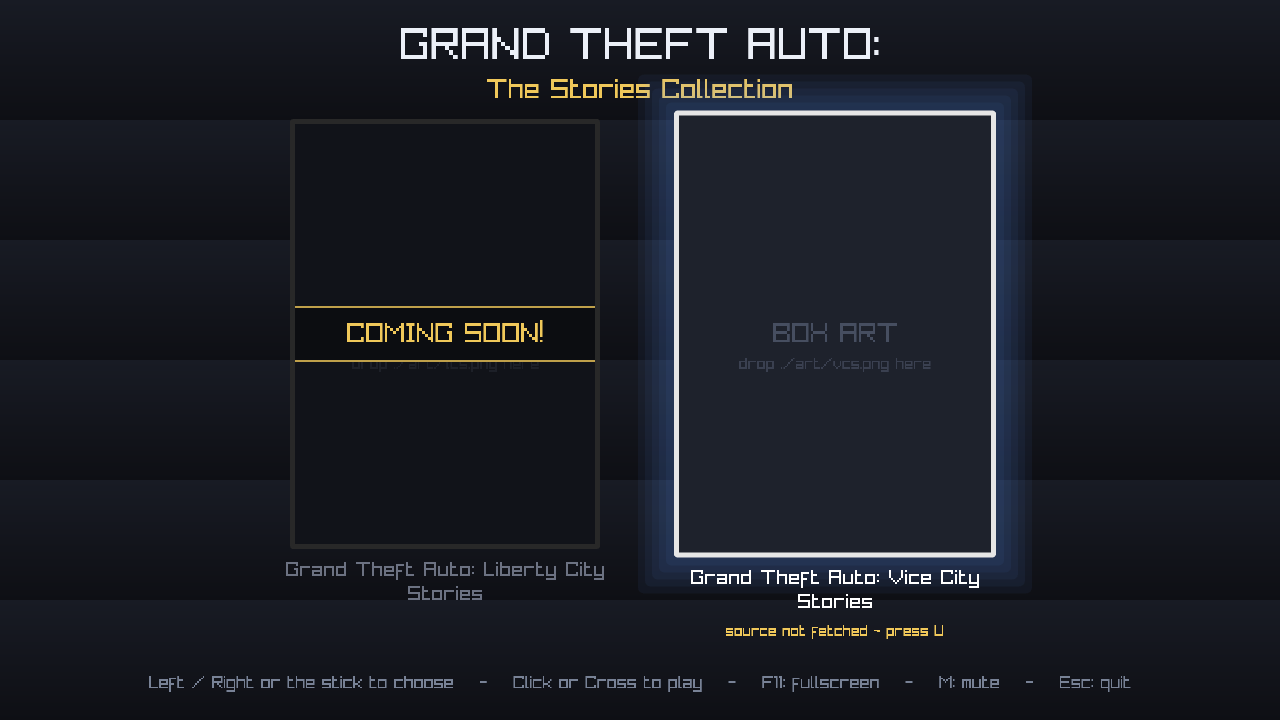
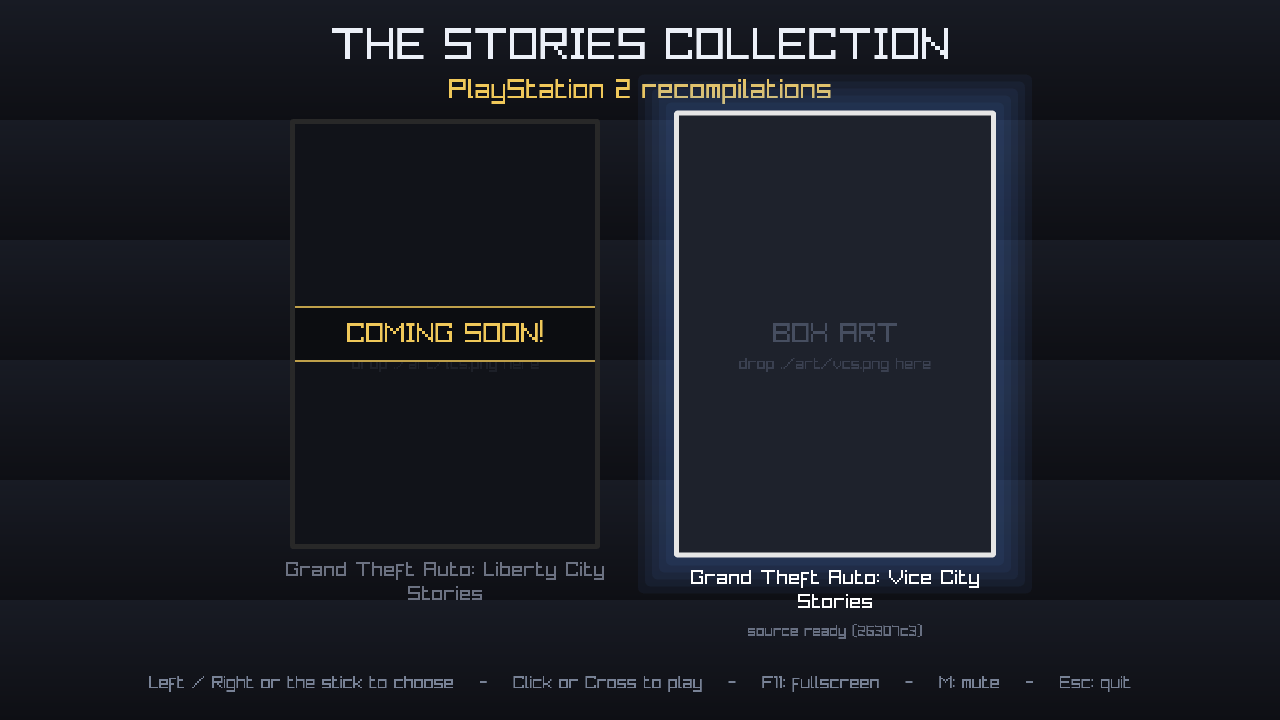
name it descriptively, and say plainly that it is not affiliated
The menu title was 'GRAND THEFT AUTO:' over 'The Stories Collection', which
reads as a product name in Rockstar's own style. It is now 'THE STORIES
COLLECTION' over 'PlayStation 2 recompilations': descriptive, carrying no mark of
its own, and saying what it actually is. The games keep their own names on their
own cards, which is the only place those names are needed - naming the games to
say which games this is for is ordinary, permitted use.

The window title follows, and the README gains a short not-affiliated notice.

'GTA', 'Grand Theft Auto', 'Vice City Stories' and 'Liberty City Stories' are all
registered Take-Two marks and they have enforced them. Nothing here uses any of
them as a brand. The repository slugs stay as they are.

Changed region(s): [[0.25, 0.0306, 0.75, 0.1528], [0.5625, 0.8556, 0.75, 0.8861]]

diff --git a/src/main.cpp b/src/main.cpp
@@ -511,7 +511,7 @@ int main(int argc, char **argv)
     }
 
     SetConfigFlags(FLAG_WINDOW_HIGHDPI | FLAG_MSAA_4X_HINT | FLAG_VSYNC_HINT);
-    InitWindow(1280, 720, "GTA PS2 - Launcher");
+    InitWindow(1280, 720, "The Stories Collection - Launcher");
     SetTargetFPS(60);
     SetExitKey(KEY_NULL);
     // Fullscreen by default: this is a front end meant to sit on the screen like a
@@ -912,11 +912,14 @@ int main(int argc, char **argv)
                                    (Color){24, 27, 36, 255}, (Color){14, 15, 20, 255});
         }
 
-        const char *heading = "GRAND THEFT AUTO:";
+        // The title is descriptive and carries no mark of its own: it says what
+        // this is and what it launches, and nothing more. The games are named on
+        // their own cards, which is the only place their names are needed.
+        const char *heading = "THE STORIES COLLECTION";
         const float headingWidth = static_cast<float>(MeasureText(heading, px(44)));
         DrawText(heading, static_cast<int>((width - headingWidth) * 0.5f), static_cast<int>(artY - 100.0f * s), px(44),
                  (Color){236, 240, 248, 255});
-        const char *subheading = "The Stories Collection";
+        const char *subheading = "PlayStation 2 recompilations";
         const float subheadingWidth = static_cast<float>(MeasureText(subheading, px(28)));
         DrawText(subheading, static_cast<int>((width - subheadingWidth) * 0.5f), static_cast<int>(artY - 48.0f * s),
                  px(28), (Color){240, 200, 90, 255});

diff --git a/README.md b/README.md
@@ -124,6 +124,17 @@ A release is a folder the player can move anywhere: the launcher, `launcher.ini`
 and the `games/` folders travel together, and relative paths in the config
 resolve beside the executable.
 
+## Not affiliated
+
+Not affiliated with, endorsed by, or connected to Rockstar Games or Take-Two
+Interactive. This is a fan tool, and its name is descriptive rather than a
+product name.
+
+It holds no game code and no game data of any kind. The games it launches are
+recompiled on your own machine from your own discs, and the box art and theme
+music it can use are yours to supply — see `art/README.txt` and
+`music/README.txt`.
+
 ## Licence
 
 GPL-3.0 — the full text is in `LICENSE`. The same licence as the port it
